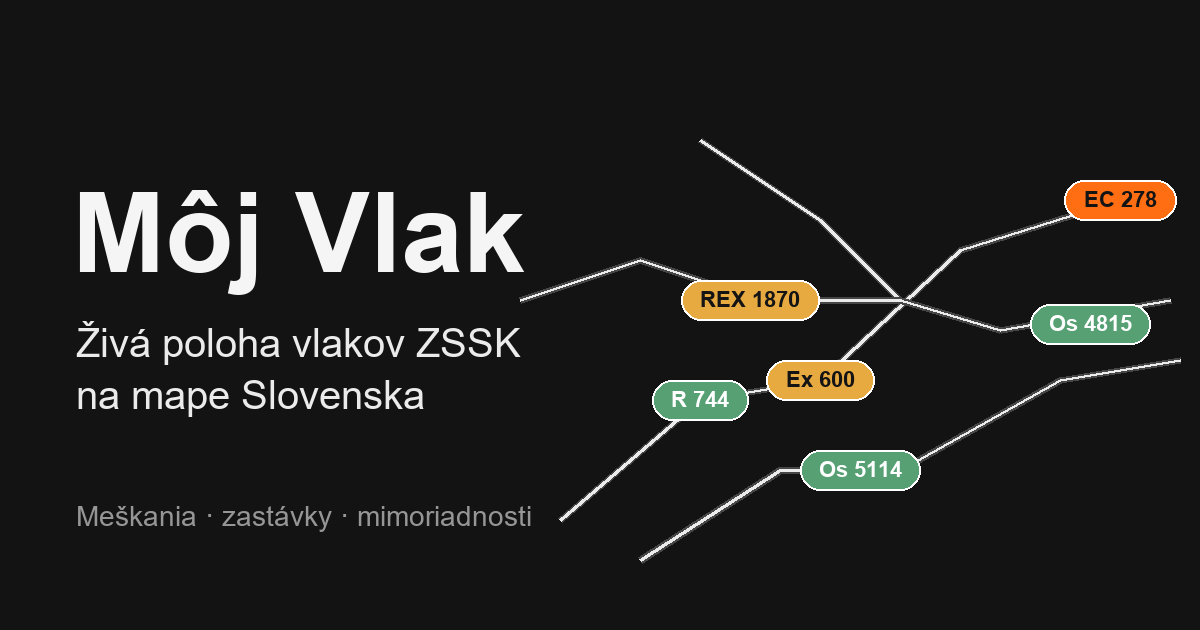
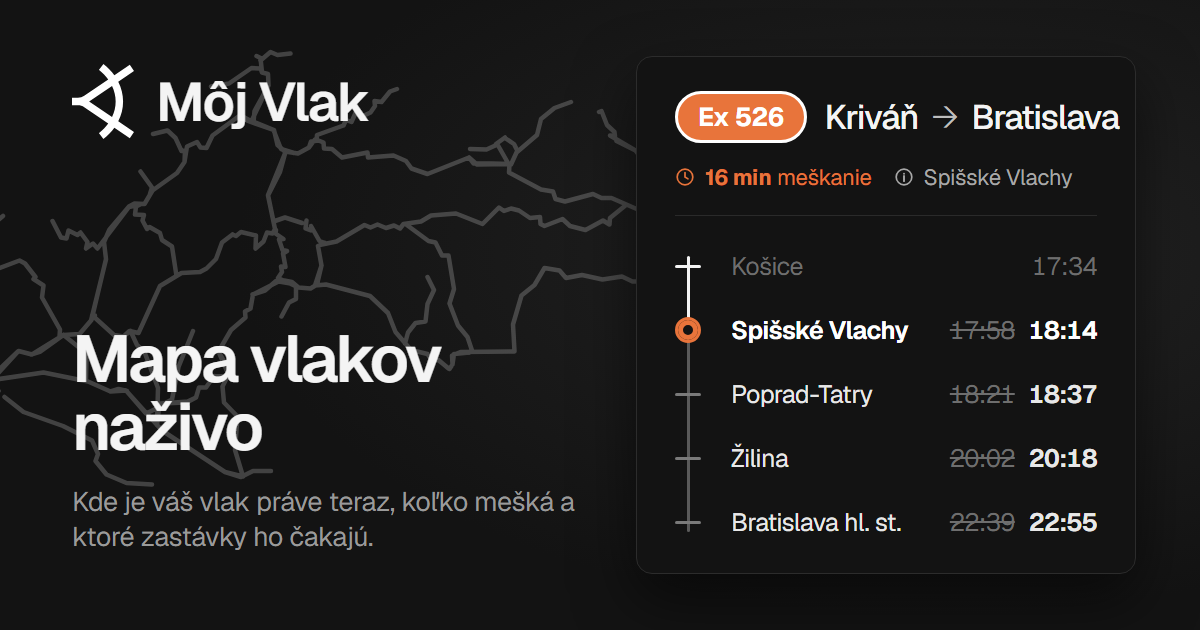
Reorder the tool buttons and add a locate button; menu fades out; new share image.
- Buttons: menu, search, about, mimoriadnosti, a gap, zoom in/out, my location.
- Locate button centres the map on the visitor and marks the spot (the position stays in the browser).
- Menu fades in and out like the left panel.
- og-image.png redrawn in the look of the train panel (logo, claim, vertical timeline with the
  current station); scripts/buildOgImage.mjs makes it.

diff --git a/src/App.tsx b/src/App.tsx
@@ -555,6 +555,8 @@ const App: React.FC = () => {
   const service = useMemo(() => new TrainService(dataset ?? EMPTY_DATASET), [dataset]);
   const [locale, setLocale] = useState<AppLocale>(readStoredLocale);
   const [menuOpen, setMenuOpen] = useState(false);
+  const [userLocation, setUserLocation] = useState<{ lat: number; lng: number } | null>(null);
+  const [locating, setLocating] = useState(false);
   const t = useMemo(() => copyFor(locale), [locale]);
   const [statusMessage, setStatusMessage] = useState(() => copyFor(readStoredLocale()).loadingGtfs);
   const [statusKind, setStatusKind] = useState<'loading' | 'success' | 'error'>(
@@ -1224,6 +1226,29 @@ const App: React.FC = () => {
     setAboutOpen(true);
   }, [aboutOpen, handleAboutBack]);
 
+  // Where am I: asks the browser for the position, centres the map there and marks it. The position
+  // stays in the browser; nothing is sent anywhere.
+  const handleLocate = useCallback(() => {
+    if (!navigator.geolocation) {
+      pushToast(t.locateFailed, 'locate', 8_000);
+      return;
+    }
+    setLocating(true);
+    navigator.geolocation.getCurrentPosition(
+      (position) => {
+        setLocating(false);
+        const here = { lat: position.coords.latitude, lng: position.coords.longitude };
+        setUserLocation(here);
+        mapViewRef.current?.centerOn(here.lng, here.lat, { minZoom: 12 });
+      },
+      (error) => {
+        setLocating(false);
+        pushToast(error.code === error.PERMISSION_DENIED ? t.locateDenied : t.locateFailed, 'locate', 8_000);
+      },
+      { enableHighAccuracy: true, timeout: 12_000, maximumAge: 30_000 }
+    );
+  }, [pushToast, t]);
+
   const handleAlertsToggle = useCallback(() => {
     if (alertsOpen) {
       setAlertsOpen(false);
@@ -1669,6 +1694,7 @@ const App: React.FC = () => {
           theme={theme}
           locale={locale}
           mapViewRef={mapViewRef}
+          userLocation={userLocation}
         />
       </div>
       <header className="chrome">
@@ -1856,21 +1882,19 @@ const App: React.FC = () => {
           </button>
           <button
             type="button"
-            className="chrome__tool"
-            aria-label={t.zoomIn}
-            title={t.zoomIn}
-            onClick={() => mapViewRef.current?.zoomIn()}
+            className={`chrome__tool chrome__tool--search${searchMobileOpen ? ' is-active' : ''}`}
+            aria-label={t.searchPlaceholder}
+            aria-pressed={searchMobileOpen}
+            title={t.searchPlaceholder}
+            onClick={() => {
+              if (searchMobileOpen) {
+                searchInputRef.current?.focus();
+                return;
+              }
+              openMobileSearch();
+            }}
           >
-            <span aria-hidden="true">+</span>
-          </button>
-          <button
-            type="button"
-            className="chrome__tool"
-            aria-label={t.zoomOut}
-            title={t.zoomOut}
-            onClick={() => mapViewRef.current?.zoomOut()}
-          >
-            <span aria-hidden="true">−</span>
+            <ChromeSearchIcon className="chrome__search-glyph chrome__search-glyph--tool" />
           </button>
           <button
             type="button"
@@ -1908,19 +1932,34 @@ const App: React.FC = () => {
           )}
           <button
             type="button"
-            className={`chrome__tool chrome__tool--search${searchMobileOpen ? ' is-active' : ''}`}
-            aria-label={t.searchPlaceholder}
-            aria-pressed={searchMobileOpen}
-            title={t.searchPlaceholder}
-            onClick={() => {
-              if (searchMobileOpen) {
-                searchInputRef.current?.focus();
-                return;
-              }
-              openMobileSearch();
-            }}
+            className="chrome__tool chrome__tool--gap"
+            aria-label={t.zoomIn}
+            title={t.zoomIn}
+            onClick={() => mapViewRef.current?.zoomIn()}
           >
-            <ChromeSearchIcon className="chrome__search-glyph chrome__search-glyph--tool" />
+            <span aria-hidden="true">+</span>
+          </button>
+          <button
+            type="button"
+            className="chrome__tool"
+            aria-label={t.zoomOut}
+            title={t.zoomOut}
+            onClick={() => mapViewRef.current?.zoomOut()}
+          >
+            <span aria-hidden="true">−</span>
+          </button>
+          <button
+            type="button"
+            className={`chrome__tool chrome__tool--locate${locating ? ' is-active' : ''}`}
+            aria-label={t.locateAria}
+            title={t.locateAria}
+            disabled={locating}
+            onClick={handleLocate}
+          >
+            <svg width="16" height="16" viewBox="0 0 16 16" fill="none" aria-hidden="true">
+              <circle cx="8" cy="8" r="3.2" stroke="currentColor" strokeWidth="1.4" />
+              <path d="M8 .9v2.3M8 12.8v2.3M.9 8h2.3M12.8 8h2.3" stroke="currentColor" strokeWidth="1.4" strokeLinecap="round" />
+            </svg>
           </button>
         </div>
       </header>

diff --git a/src/styles.css b/src/styles.css
@@ -3029,7 +3029,8 @@ body,
   color: #ffffff;
   backdrop-filter: blur(18px);
   -webkit-backdrop-filter: blur(18px);
-  animation: menu-in 200ms var(--ease) both;
+  /* the same fade and 8px rise as the left panel */
+  animation: dock-in var(--enter-dur) var(--ease) both;
   --menu-line: rgba(255, 255, 255, 0.14);
   --menu-card: rgba(255, 255, 255, 0.05);
   --menu-card-hover: rgba(255, 255, 255, 0.09);
@@ -3432,7 +3433,7 @@ body,
     background: rgba(19, 19, 19, 0.96);
     box-shadow: 0 10px 28px rgba(0, 0, 0, 0.4);
     transform-origin: top right;
-    animation: menu-pop 200ms var(--ease) both;
+    animation: dock-in var(--enter-dur) var(--ease) both;
   }
 
   .shell[data-theme='light'] .menu {
@@ -3525,4 +3526,62 @@ body,
 
 .menu__item .menu__label {
   margin: 0;
+}
+
+/* Closing: the same fade and 8px drop as the left panel leaving. */
+.menu--leave {
+  animation: dock-out var(--enter-dur) var(--ease) both !important;
+  pointer-events: none;
+}
+
+/* A gap between the menu / search / info / alerts group and the zoom / locate group. */
+.chrome__tool--gap {
+  margin-top: 14px;
+}
+
+.chrome__tool--locate:disabled {
+  cursor: progress;
+  opacity: 0.7;
+}
+
+.chrome__tool--locate.is-active svg {
+  animation: map-loading-spin 1.1s linear infinite;
+}
+
+/* The visitor's position on the map. */
+.user-dot {
+  position: relative;
+  width: 16px;
+  height: 16px;
+  border-radius: 50%;
+  background: #2f7cf6;
+  border: 2.5px solid #ffffff;
+  box-shadow: 0 1px 6px rgba(0, 0, 0, 0.4);
+}
+
+.user-dot::after {
+  content: '';
+  position: absolute;
+  inset: -9px;
+  border-radius: 50%;
+  background: rgba(47, 124, 246, 0.28);
+  animation: user-dot-pulse 2.2s ease-out infinite;
+}
+
+@keyframes user-dot-pulse {
+  from {
+    transform: scale(0.45);
+    opacity: 1;
+  }
+  to {
+    transform: scale(1);
+    opacity: 0;
+  }
+}
+
+@media (prefers-reduced-motion: reduce) {
+  .user-dot::after,
+  .chrome__tool--locate.is-active svg {
+    animation: none;
+  }
 }

diff --git a/src/components/MainMenu.tsx b/src/components/MainMenu.tsx
@@ -1,4 +1,4 @@
-import React, { useEffect, useRef } from 'react';
+import React, { useEffect, useRef, useState } from 'react';
 import { REGION_ID, REGIONS, type RegionId } from '../region';
 import type { AppLocale } from '../i18n';
 import { REGION_SKETCH, REGION_SKETCH_SIZE } from '../data/regionSketch';
@@ -35,6 +35,22 @@ const DESKTOP_QUERY = '(min-width: 801px)';
  */
 export const MainMenu: React.FC<Props> = ({ open, onClose, copy, locale, onLocale, theme, onTheme, logo }) => {
   const closeRef = useRef<HTMLButtonElement | null>(null);
+  // Stays in the page while it fades out (the same exit as the left panel), then goes.
+  const [mounted, setMounted] = useState(open);
+  const leaving = mounted && !open;
+
+  useEffect(() => {
+    if (open) {
+      setMounted(true);
+      return undefined;
+    }
+    if (!mounted) {
+      return undefined;
+    }
+    // animationend does it; the timer covers reduced motion, where there is no animation
+    const timer = window.setTimeout(() => setMounted(false), 400);
+    return () => window.clearTimeout(timer);
+  }, [open, mounted]);
 
   useEffect(() => {
     if (!open) {
@@ -66,14 +82,24 @@ export const MainMenu: React.FC<Props> = ({ open, onClose, copy, locale, onLocal
     };
   }, [open, onClose]);
 
-  if (!open) {
+  if (!mounted) {
     return null;
   }
 
   const dark = theme === 'dark';
 
   return (
-    <div className="menu" role="dialog" aria-modal="true" aria-label="Menu">
+    <div
+      className={`menu${leaving ? ' menu--leave' : ''}`}
+      role="dialog"
+      aria-modal="true"
+      aria-label="Menu"
+      onAnimationEnd={(event) => {
+        if (leaving && event.target === event.currentTarget) {
+          setMounted(false);
+        }
+      }}
+    >
       <div className="menu__head">
         <span className="menu__brand">
           <img src={logo} alt="" width={22} height={22} />

diff --git a/src/components/MapScene.tsx b/src/components/MapScene.tsx
@@ -1252,6 +1252,8 @@ interface MapSceneProps {
   theme?: MapTheme;
   locale?: AppLocale;
   mapViewRef?: React.MutableRefObject<MapViewControls | null>;
+  /** The visitor's position (from the locate button), drawn as a dot. It never leaves the browser. */
+  userLocation?: { lat: number; lng: number } | null;
 }
 
 export const MapScene: React.FC<MapSceneProps> = React.memo(({
@@ -1278,6 +1280,7 @@ export const MapScene: React.FC<MapSceneProps> = React.memo(({
   theme = 'light',
   locale = 'sk',
   mapViewRef,
+  userLocation = null,
 }) => {
   const mapCopy = useMemo(() => copyFor(locale), [locale]);
   const containerRef = useRef<HTMLDivElement>(null);
@@ -3026,6 +3029,20 @@ export const MapScene: React.FC<MapSceneProps> = React.memo(({
       mapViewRef.current = null;
     };
   }, [mapViewRef, terrainLoaded]);
+
+  useEffect(() => {
+    const map = mapRef.current;
+    if (!map || !terrainLoaded || !userLocation) {
+      return undefined;
+    }
+    const element = document.createElement('div');
+    element.className = 'user-dot';
+    element.setAttribute('aria-hidden', 'true');
+    const marker = new Marker({ element }).setLngLat([userLocation.lng, userLocation.lat]).addTo(map);
+    return () => {
+      marker.remove();
+    };
+  }, [userLocation, terrainLoaded]);
 
   const mapReady = terrainLoaded;
   const railsReady = !osmStatus.loading && tileLoadPlan.completed > 0;

diff --git a/src/i18n.ts b/src/i18n.ts
@@ -41,6 +41,9 @@ export type Copy = {
   station: string;
   zoomIn: string;
   zoomOut: string;
+  locateAria: string;
+  locateDenied: string;
+  locateFailed: string;
   themeToLight: string;
   themeToDark: string;
   themeLight: string;
@@ -137,6 +140,9 @@ const sk: Copy = {
   station: 'Stanica',
   zoomIn: 'Priblížiť mapu',
   zoomOut: 'Oddialiť mapu',
+  locateAria: 'Moja poloha',
+  locateDenied: 'Poloha nie je povolená. Povoľte ju v nastaveniach prehliadača.',
+  locateFailed: 'Polohu sa nepodarilo zistiť.',
   themeToLight: 'Prepnúť na svetlý režim',
   themeToDark: 'Prepnúť na tmavý režim',
   themeLight: 'Svetlý režim',
@@ -235,6 +241,9 @@ const en: Copy = {
   station: 'Station',
   zoomIn: 'Zoom in',
   zoomOut: 'Zoom out',
+  locateAria: 'My location',
+  locateDenied: 'Location is blocked. Allow it in your browser settings.',
+  locateFailed: 'Could not find your location.',
   themeToLight: 'Switch to light mode',
   themeToDark: 'Switch to dark mode',
   themeLight: 'Light mode',
